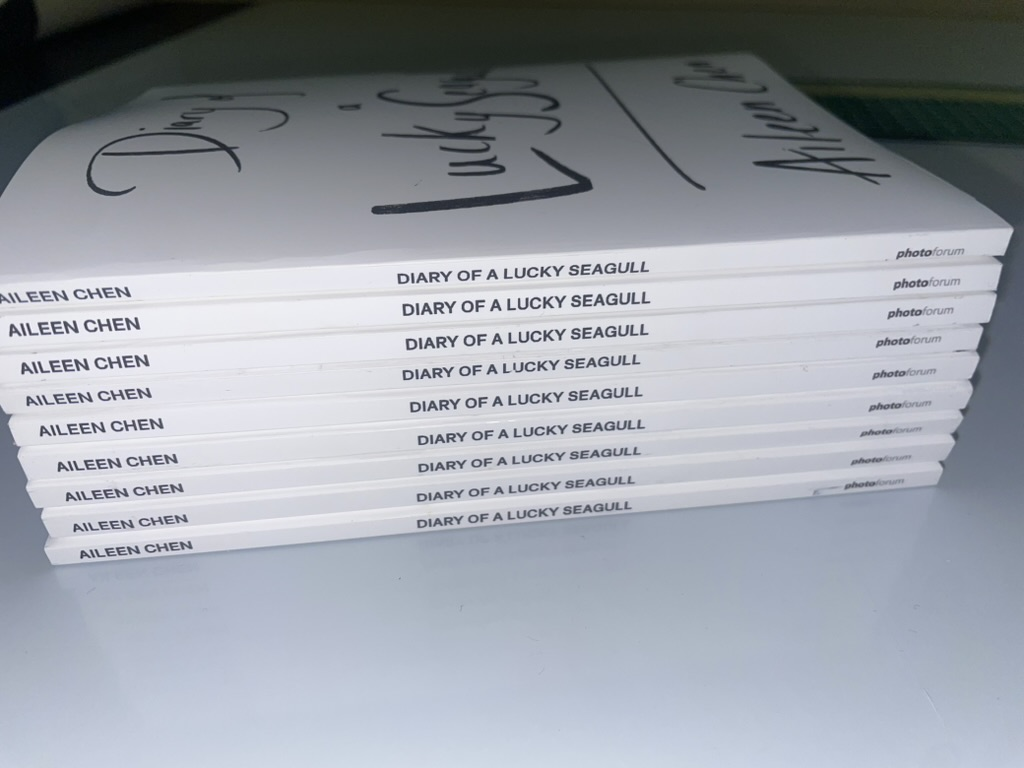
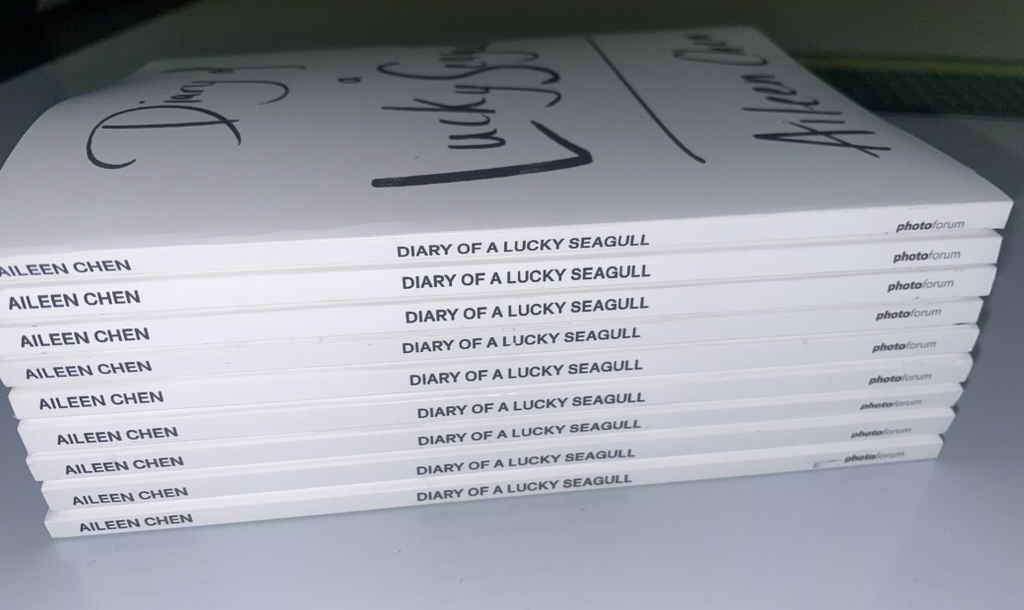
desktop styling

diff --git a/index.html b/index.html
@@ -15,6 +15,19 @@ title: Diary of a Lucky Seagull
     </h1>
     <p><span id="vol">Vol. I</span> <span id="edition">Edition of 50</span></p>
     <p>22 NZD</p>
+    <form>
+      <input 
+        type="number" 
+        id="quantity" 
+        name="quantity" 
+        value="1" 
+        min="1" 
+        max="99" 
+        step="1"
+        aria-label="Product quantity"
+      >
+      <button type="button" class="wipe" id="order" aria-label="Order">Order</button>
+    </form>
   </section>
   <p class="body">
     This is a collection moments that has stayed with me since capturing them. Some are several years old. It’s a certain way a stranger is holding themselves or what they’re wearing that is so potent to me. I’m often on the street — my studio is located downtown in  Britomart, Auckland. The mundanity of point A to point B is a constant. E.g. catching public transport, running errands or grabbing lunch with a friend and often times I spot something stopping me in my scurry and I quickly take a shot and carry on, it almost becomes rhythmic or like a daily mantra but a physical act. This is a diary. I’m the seagull. I feel lucky to catch these fleeting moments. 

diff --git a/_sass/_mixins.scss b/_sass/_mixins.scss
@@ -90,3 +90,31 @@
 @mixin anchor-position {
   position: relative;
 }
+
+@mixin wipe-hover($background: var(--fg), $foreground: var(--bg)) {
+  @include anchor-position;
+  &::after {
+    @include pseudo;
+    display: inline-block;
+    height: 100%;
+    width: 0%;
+    z-index: -1;
+    background: $background;
+  }
+  &:hover, &:focus {
+    &::after {
+      width: 100%;
+      @include transit;
+    }
+  }
+  &:hover {
+    color: $foreground;
+    &::after {
+      background: $background;
+    }
+  }
+  &:focus {
+    color: $foreground;
+    box-shadow: none;
+  }
+}

diff --git a/_sass/_components.scss b/_sass/_components.scss
@@ -3,12 +3,38 @@
 
 // Flipthrough gif
 
+h1 {
+  filter: invert(1);
+  mix-blend-mode: difference;
+}
+
 #flipthrough {
   width: 100%;
   max-width: $col1;
   aspect-ratio: 3/4.5;
   object-fit: cover;
   object-position: top;
+}
+
+input, button {
+  border-radius: 0;
+  background: transparent;
+  border: 1px solid var(--fg);
+}
+
+input {
+  padding-left: 1rem;
+}
+
+button {
+  @include wipe-hover;
+  padding: 0.75rem 1rem;
+  &:hover {
+    cursor: pointer;
+  }
+  &:active {
+    transform: translate(1px, 2px);
+  }
 }
 
 // Specs list

diff --git a/_sass/_layouts.scss b/_sass/_layouts.scss
@@ -16,10 +16,17 @@
     grid-column: span 2 / span 2;
     grid-column-start: 3;
     align-self: center;
+    display: grid;
+    grid-template-columns: subgrid;
+
+    p, form {
+      grid-column-start: 1;
+    }
   }
 
     #title {
       transform: translateX(-40px);
+      grid-column: span 2;
     }
 
   .body {
@@ -35,4 +42,11 @@
 header, footer {
   text-align: center;
   padding: var(--gap-lrg) 0;
+}
+
+form {
+  display: flex;
+  flex-direction: row;
+  justify-content: space-between;
+  margin-top: calc(2*var(--gap-lrg));
 }

diff --git a/_sass/_typography.scss b/_sass/_typography.scss
@@ -1,6 +1,16 @@
 @use "mixins" as *;
 @use "vars" as *;
 
+#intro {
+  font-size: var(--f-med);
+}
+
+input, button {
+  font-family: var(--ff-sans);
+  font-size: var(--f-med);
+  text-align: center;
+}
+
 p, li {
   font-size: var(--f-sml);
   line-height: 2em;
@@ -10,7 +20,7 @@ p.body {
 }
 
 header, footer {
-  font-size: var(--f-lrg);
+  font-size: var(--f-xlg);
   font-weight: bold;
-  letter-spacing: 10%;
+  letter-spacing: 20%;
 }

diff --git a/_sass/_vars.scss b/_sass/_vars.scss
@@ -42,7 +42,7 @@
 
   @include dark { :root {
     --fg: white;
-    --bg: black;
+    --bg: #111;
     --ac: lightblue; // accent colour
     --fc: yellow; // focus colour
   }}
@@ -55,7 +55,9 @@
 
   :root {
     --f-sml: 0.875rem;
-    --f-lrg: 1.5rem;
+    --f-med: 1rem;
+    --f-lrg: 1.25rem;
+    --f-xlg: 1.5rem
   }
 
 // Font families
